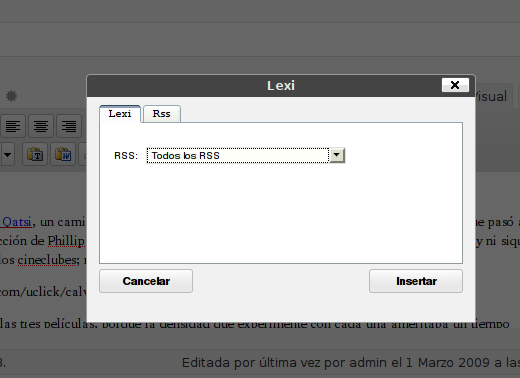
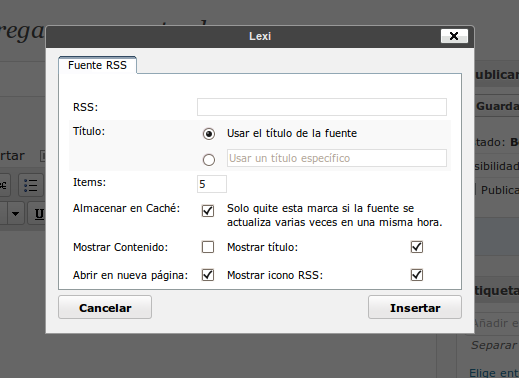
* FAQ and screenshots updated.
git-svn-id: https://plugins.svn.wordpress.org/lexi/trunk@193974 b8457f37-d9ea-0310-8a92-e5e31aec5664

diff --git a/lexi.php b/lexi.php
@@ -3,7 +3,7 @@
 Plugin Name: Lexi
 Plugin URI: http://www.sebaxtian.com/acerca-de/lexi
 Description: An RSS feeder using ajax to show contents after the page has been loaded.
-Version: 0.8.3
+Version: 0.8.4
 Author: Juan Sebastián Echeverry
 Author URI: http://www.sebaxtian.com
 */
